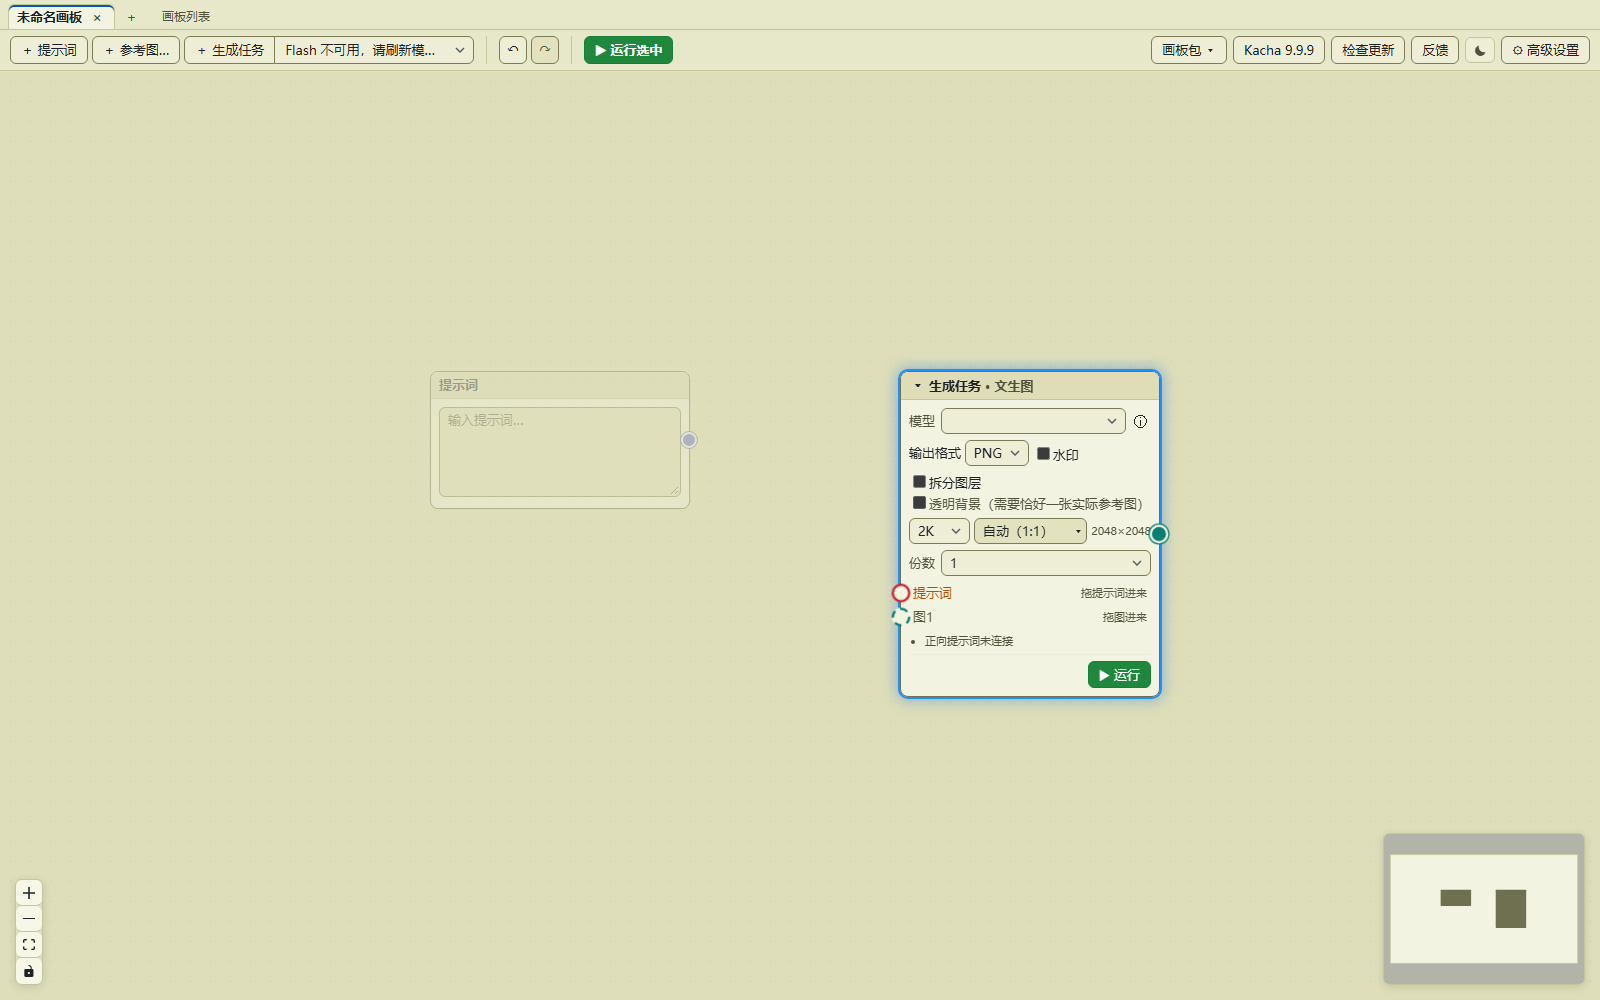
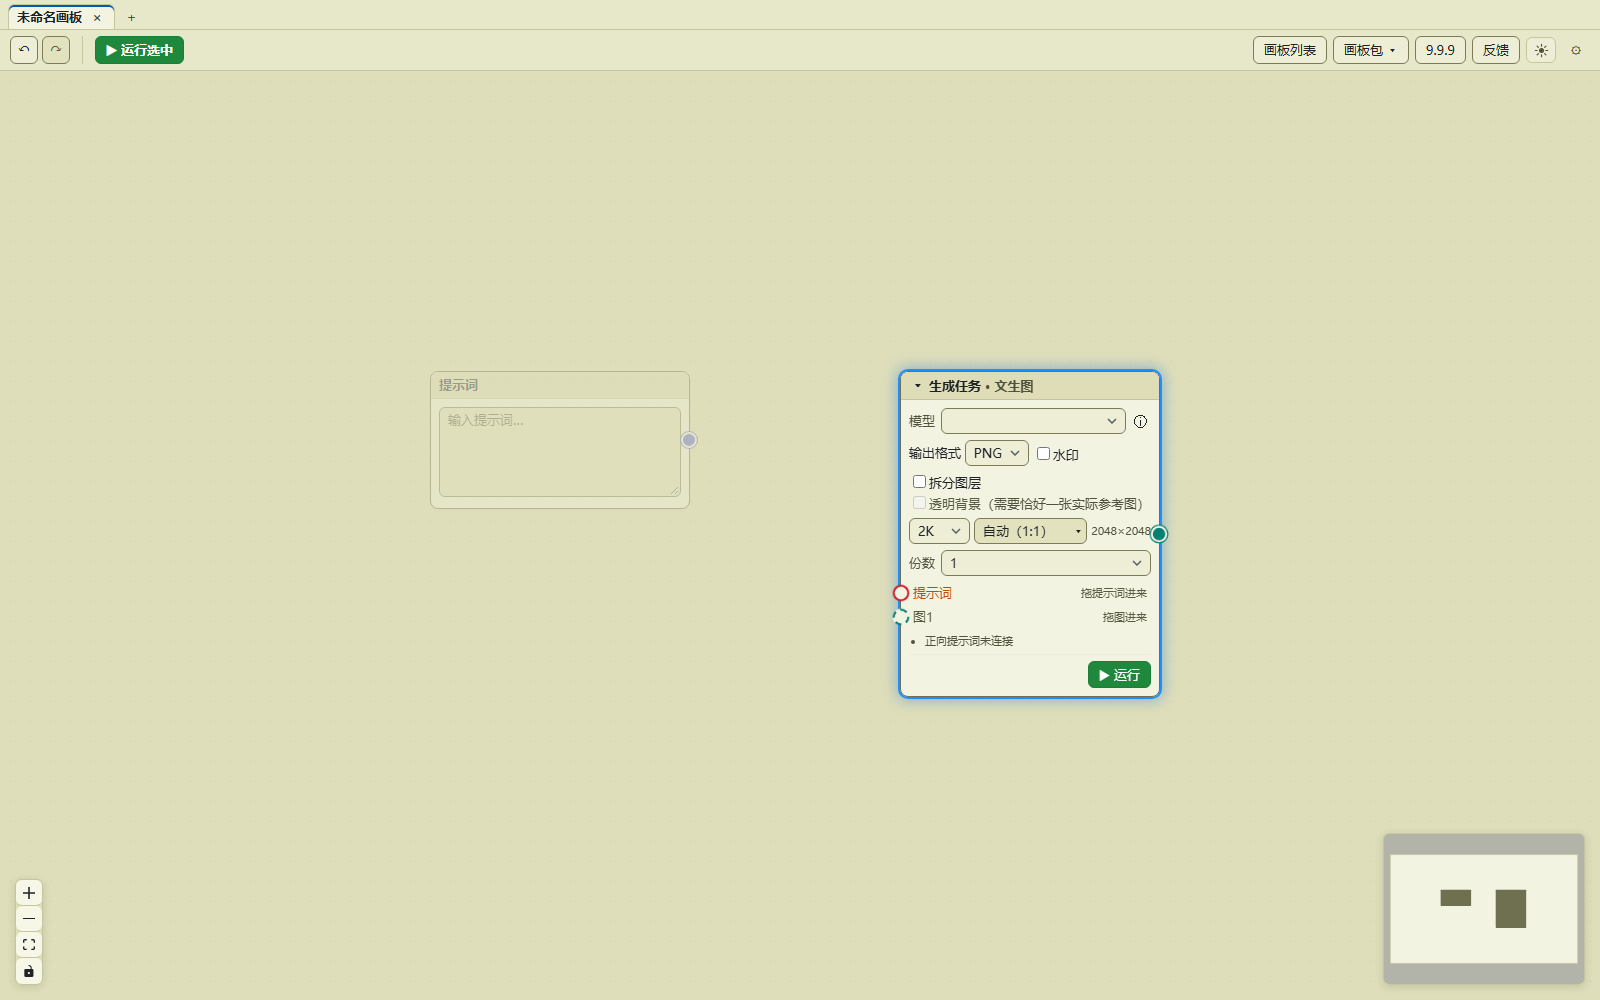
release: 1.8.0 工作台精简与浅色米色主题

diff --git a/client/src/core/changelog.test.ts b/client/src/core/changelog.test.ts
@@ -65,7 +65,7 @@ describe("仓库里的更新说明与桌面版本", () => {
   const read = (relative: string): string => readFileSync(new URL(`../../../${relative}`, import.meta.url), "utf8");
   /** 可查发行版的完整索引：新在前，同号只出现一次。 */
   const RELEASES = [
-    "1.7.3", "1.7.2", "1.7.1", "1.7.0", "1.6.12", "1.6.11", "1.6.10", "1.6.9", "1.6.8", "1.6.7", "1.6.6", "1.6.5", "1.6.4", "1.6.3", "1.6.2", "1.6.1", "1.6.0", "1.5.0", "1.4.0", "1.3.1", "1.3.0", "1.2.0", "1.1.1", "1.1.0", "1.0.0",
+    "1.8.0", "1.7.3", "1.7.2", "1.7.1", "1.7.0", "1.6.12", "1.6.11", "1.6.10", "1.6.9", "1.6.8", "1.6.7", "1.6.6", "1.6.5", "1.6.4", "1.6.3", "1.6.2", "1.6.1", "1.6.0", "1.5.0", "1.4.0", "1.3.1", "1.3.0", "1.2.0", "1.1.1", "1.1.0", "1.0.0",
     "0.3.2", "0.3.1", "0.3.0", "0.2.2", "0.2.1", "0.2.0", "0.1.0",
   ];
 

diff --git a/client/e2e/boardListPopover.spec.ts b/client/e2e/boardListPopover.spec.ts
@@ -1,4 +1,5 @@
 // 画板列表弹层在真实浏览器里的几何边界：960px 最小窗口、长名称与标签多行都不溢出。
+import { mkdirSync } from "node:fs";
 import { expect, test } from "@playwright/test";
 
 test("画板列表弹层锚定在第二行，窄窗口与长名称都不溢出", async ({ page }) => {
@@ -28,4 +29,8 @@ test("画板列表弹层锚定在第二行，窄窗口与长名称都不溢出",
   expect(clipped.scroll).toBeGreaterThan(clipped.client);
   const nameBox = await name.boundingBox();
   expect(nameBox!.x + nameBox!.width).toBeLessThanOrEqual(960);
+
+  // 当前能力截图：第二行右侧入口与锚定非模态弹层。
+  mkdirSync("../docs/screenshots", { recursive: true });
+  await page.screenshot({ path: "../docs/screenshots/app-canvas-popover.png", animations: "disabled" });
 });

diff --git a/client/e2e/board.spec.ts b/client/e2e/board.spec.ts
@@ -16,6 +16,10 @@ test("真实浏览器：精简工具栏与画板菜单键盘链路", async ({ pa
   await expect(page.locator(".app")).toBeVisible();
   await expect(page.locator(".fatal")).toHaveCount(0);
 
+  // 当前能力截图：最终精简后的工作台外观。
+  mkdirSync("../docs/screenshots", { recursive: true });
+  await page.screenshot({ path: "../docs/screenshots/app-canvas.png", animations: "disabled" });
+
   const canvas = page.locator(".canvas");
   await expect(canvas).toBeVisible();
   await expect(canvas.locator(".react-flow")).toBeVisible();

diff --git a/mygo.config.ts b/mygo.config.ts
@@ -5,7 +5,7 @@ export default {
   name: "Kacha",
   slug: "kacha",
   identifier: "app.kacha.desktop",
-  version: "1.7.3",
+  version: "1.8.0",
   // 相对仓库根；"desktop" 会被 go list 当成标准库包名，必须带 ./。
   main: "./desktop",
   // 构建前先构建现有前端；frontendDist 随后被嵌进可执行文件。

diff --git a/docs/release/changelog-sources.md b/docs/release/changelog-sources.md
@@ -2,12 +2,13 @@
 
 `docs/release/changelog.md` 是当前与历史更新说明的唯一展示源；产品版本仍只由仓库根 `mygo.config.ts` 声明。本文件只记录恢复来源与核对结果，不参与构建取版本，也不另设产品版本线。
 
-历史条目保留发布当时的语境；旧说明中关于网页版、旧桌面壳、归档、整理、自动更新和生成能力的描述，不构成当前 MyGo / Go 桌面已经交付这些能力的证据。当前能力只看 `changelog.md` 的 1.7.3 节和桌面端口测试（2026-11-26 更正）。
+历史条目保留发布当时的语境；旧说明中关于网页版、旧桌面壳、归档、整理、自动更新和生成能力的描述，不构成当前 MyGo / Go 桌面已经交付这些能力的证据。当前能力只看 `changelog.md` 的 1.8.0 节和桌面端口测试（2026-11-27 更正）。
 
-2026-11-26：当前能力改看 `changelog.md` 的 1.7.3 节——1.7.0 的阶段、定稿、整理模式与体量提醒已移除，归档、画板位、画板包、唯一引用计量与生成能力不变（[ADR 0028](../adr/0028-remove-stages-finalize-and-tidy.md)）；1.7.3 修复任务收起时用户连线消失，并调整浅色画布配色。
+2026-11-27：当前能力改看 `changelog.md` 的 1.8.0 节——规格 #261 精简了工作台入口、图片节点悬浮操作栏、工具栏与更新区；主题收敛为浅／深两态并默认浅色，浅色统一为米色语义层级；整板结果下载及其专属前后端链路已删除，画板包导入／导出、单结果保存、迭代动作、预览和自动更新继续可用。
 
 | 版本 | 恢复来源 | 核对结果 |
 | --- | --- | --- |
+| 1.8.0 | spec #261 及子票 #262–#269；owner 要求全部完成后升版发布 | 八张票据的工作台集成测试、Go 绑定与桌面测试、真实浏览器计算色／键盘／弹层几何 e2e 均通过；`python packaging\verify.py --quality` 通过，未运行变异测试。 |
 | 1.7.3 | owner 2026-11-26 要求直接处理 Gitea `kacha-feedback` 的开放反馈 #17、#16 并升版；#260 删除反馈中继并直连 Gitea | 连线修复由真实 React Flow 浏览器回归覆盖；米色画布及节点、用户连线、系统连线对比度由样式契约测试覆盖。反馈中继删除与直连改造按 owner 决定未运行测试、构建或真实反馈冒烟。 |
 | 1.7.2 | owner 2026-11-24 确认：反馈 Gitea token 支持一键授权，自动更新去掉手动下载选项 | 授权链由 Go 侧 OAuth2/PKCE 单测和反馈发送 token 注入测试覆盖；更新入口由组件测试断言不再出现手动下载链接。 |
 | 1.7.1 | owner 2026-11-24 要求：资源管理器粘贴画板图片直接保存，并把占横向空间的主题文字按钮换成三态图标 | 修复来自 `desktop/internal/clipboard` 的图片复制结局与剪贴板数据测试；改进来自调试版真机截图；发布链只按本机资产与 Gitea Release 证据判定。 |
